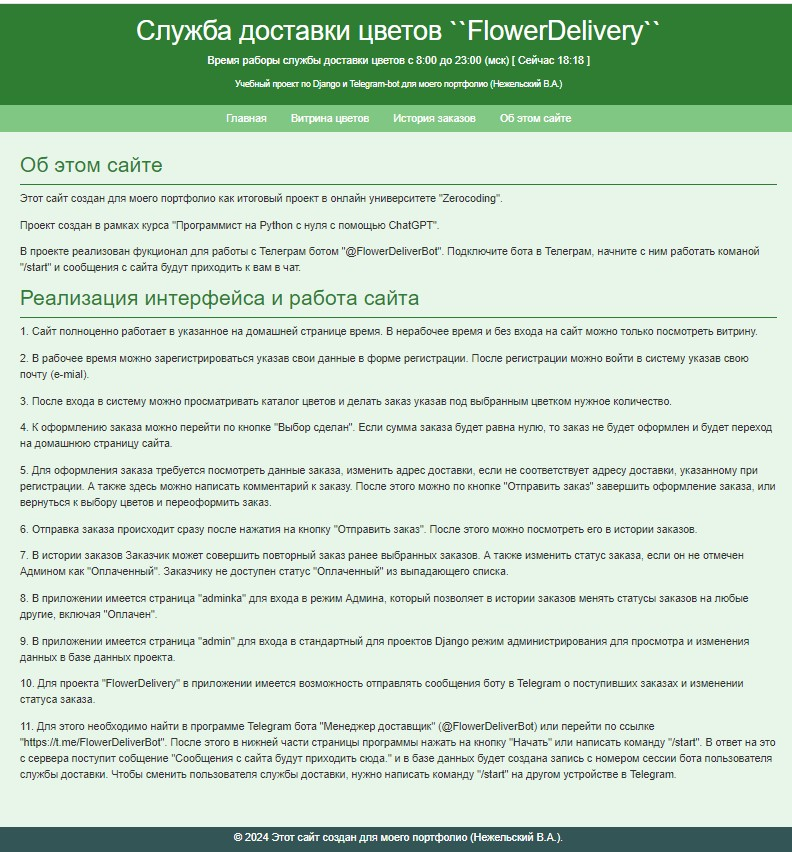
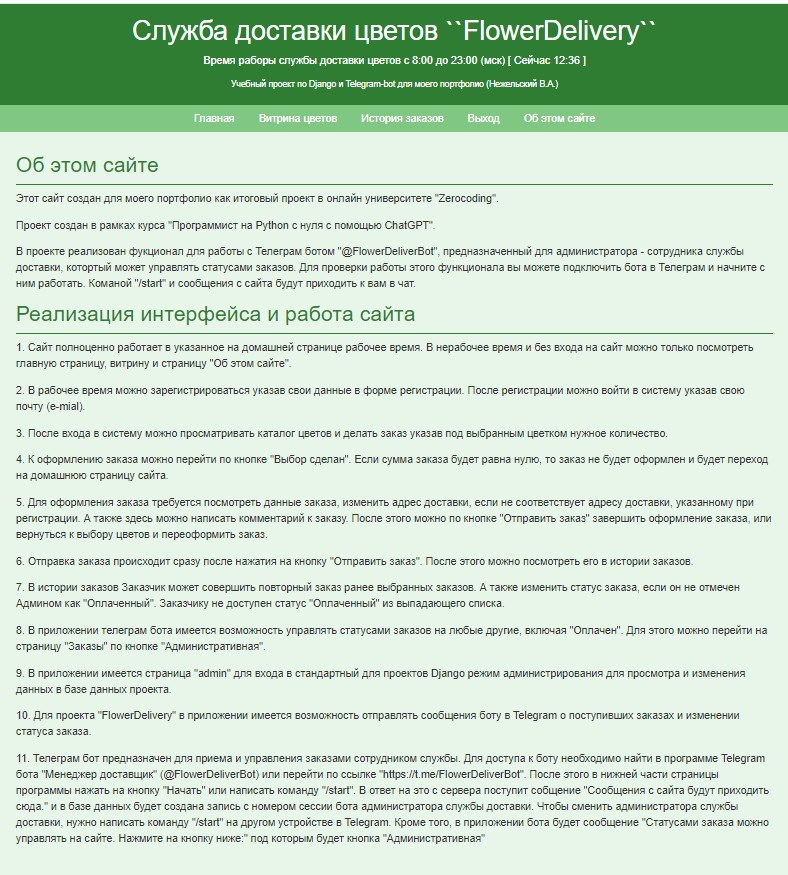
Commit N4 Новая редакция сайта

Changed region(s): [[0.0, 0.0, 1.0, 1.0]]

diff --git a/FlowerDelivery/website/templates/website/about.html b/FlowerDelivery/website/templates/website/about.html
@@ -6,47 +6,54 @@
             <h2>Об этом сайте</h2>
             <p>Этот сайт создан для моего портфолио как итоговый проект в онлайн университете "Zerocoding".</p>
             <p>Проект создан в рамках курса "Программист на Python с нуля с помощью ChatGPT".</p>
-            <p>В проекте реализован фукционал для работы с Телеграм ботом "@FlowerDeliverBot". Подключите бота
-            в Телеграм, начните с ним работать команой "/start" и сообщения с сайта будут приходить к вам в чат.</p>
+            <p>В проекте реализован фукционал для работы с Телеграм ботом "@FlowerDeliverBot", предназначенный для
+                администратора - сотрудника службы доставки, котортый может управлять статусами заказов.
+                Для проверки работы этого функционала вы можете подключить бота в Телеграм и начните с ним работать.
+                Команой "/start" и сообщения с сайта будут приходить к вам в чат.</p>
             <h2>Реализация интерфейса и работа сайта</h2>
-            <p>1. Сайт полноценно работает в указанное на домашней странице время.
-            В нерабочее время и без входа на сайт можно только посмотреть витрину.</p>
+            <p>1. Сайт полноценно работает в указанное на домашней странице рабочее время.
+                В нерабочее время и без входа на сайт можно только посмотреть главную страницу,
+                витрину и страницу "Об этом сайте".</p>
             <p>2. В рабочее время можно зарегистрироваться указав свои данные в
-            форме регистрации. После регистрации можно войти в систему указав свою
-            почту (e-mial).</p>
+                форме регистрации. После регистрации можно войти в систему указав свою
+                почту (e-mial).</p>
             <p>3. После входа в систему можно просматривать каталог цветов и делать заказ
-            указав под выбранным цветком нужное количество.</p>
+                указав под выбранным цветком нужное количество.</p>
             <p>4. К оформлению заказа можно перейти по кнопке "Выбор сделан". Если сумма
-            заказа будет равна нулю, то заказ не будет оформлен и будет переход на
-            домашнюю страницу сайта.</p>
+                заказа будет равна нулю, то заказ не будет оформлен и будет переход на
+                домашнюю страницу сайта.</p>
             <p>5. Для оформления заказа требуется посмотреть данные заказа, изменить
-            адрес доставки, если не соответствует адресу доставки, указанному при
-            регистрации. А также здесь можно написать комментарий к заказу. После
-            этого можно по кнопке "Отправить заказ" завершить оформление заказа,
-            или вернуться к выбору цветов и переоформить заказ.</p>
+                адрес доставки, если не соответствует адресу доставки, указанному при
+                регистрации. А также здесь можно написать комментарий к заказу. После
+                этого можно по кнопке "Отправить заказ" завершить оформление заказа,
+                или вернуться к выбору цветов и переоформить заказ.</p>
             <p>6. Отправка заказа происходит сразу после нажатия на кнопку "Отправить
-            заказ". После этого можно посмотреть его в истории заказов.</p>
+                заказ". После этого можно посмотреть его в истории заказов.</p>
             <p>7. В истории заказов Заказчик может совершить повторный заказ ранее
-            выбранных заказов. А также изменить статус заказа, если он не отмечен
-            Админом как "Оплаченный". Заказчику не доступен статус "Оплаченный" из
-            выпадающего списка.</p>
-            <p>8. В приложении имеется страница "adminka" для входа в режим
-            Админа, который позволяет в истории заказов менять статусы заказов на
-            любые другие, включая "Оплачен".</p>
+                выбранных заказов. А также изменить статус заказа, если он не отмечен
+                Админом как "Оплаченный". Заказчику не доступен статус "Оплаченный" из
+                выпадающего списка.</p>
+            <p>8. В приложении телеграм бота имеется возможность управлять статусами
+                заказов на любые другие, включая "Оплачен". Для этого можно перейти на
+                страницу "Заказы" по кнопке "Административная".</p>
             <p>9. В приложении имеется страница "admin" для входа в стандартный
-            для проектов Django режим администрирования для просмотра и изменения
-            данных в базе данных проекта.</p>
+                для проектов Django режим администрирования для просмотра и изменения
+                данных в базе данных проекта.</p>
             <p>10. Для проекта "FlowerDelivery" в приложении имеется возможность
-            отправлять сообщения боту в Telegram о поступивших заказах и изменении
-            статуса заказа.</p>
-            <p>11. Для этого необходимо найти в программе Telegram бота "Менеджер
-            доставщик" (@FlowerDeliverBot) или перейти по ссылке
-            "https://t.me/FlowerDeliverBot". После этого в нижней части страницы
-            программы нажать на кнопку "Начать" или написать команду "/start".
-            В ответ на это с сервера поступит собщение "Сообщения с сайта будут
-            приходить сюда." и в базе данных будет создана запись с номером сессии
-            бота пользователя службы доставки. Чтобы сменить пользователя службы
-            доставки, нужно написать команду "/start" на другом устройстве в
-            Telegram.</p>
+                отправлять сообщения боту в Telegram о поступивших заказах и изменении
+                статуса заказа.</p>
+            <p>11. Телеграм бот предназначен для приема и управления заказами
+                сотрудником службы.
+                Для доступа к боту необходимо найти в программе Telegram бота "Менеджер
+                доставщик" (@FlowerDeliverBot) или перейти по ссылке
+                "https://t.me/FlowerDeliverBot". После этого в нижней части страницы
+                программы нажать на кнопку "Начать" или написать команду "/start".
+                В ответ на это с сервера поступит собщение "Сообщения с сайта будут
+                приходить сюда." и в базе данных будет создана запись с номером сессии
+                бота администратора службы доставки. Чтобы сменить администратора службы
+                доставки, нужно написать команду "/start" на другом устройстве в
+                Telegram. Кроме того, в приложении бота будет сообщение
+                "Cтатусами заказа можно управлять на сайте. Нажмите на кнопку ниже:"
+                под которым будет кнопка "Административная"</p>
         </div>
 {% endblock %}

diff --git a/FlowerDelivery/website/templates/website/order_history.html b/FlowerDelivery/website/templates/website/order_history.html
@@ -74,33 +74,36 @@
 </div>
 
 <script>
-document.querySelectorAll('.status-select').forEach(select => {
-    select.addEventListener('change', function() {
-        const orderId = this.getAttribute('data-order-id');
-        const newStatus = this.value;
+    const user = '{{ user }}';
+    document.querySelectorAll('.status-select').forEach(select => {
+        select.addEventListener('change', function() {
+            const orderId = this.getAttribute('data-order-id');
+            const newStatus = this.value;
 
-        fetch("{% url 'orders' %}", {
-            method: 'POST',
-            headers: {
-                'Content-Type': 'application/json',
-                'X-CSRFToken': '{{ csrf_token }}'
-            },
-            body: JSON.stringify({
-                order_id: orderId,
-                status: newStatus
+            // Определяем URL в зависимости от значения user
+            const url = user === "admin" ? "{% url 'home_admin' %}" : "{% url 'orders' %}";
+
+            fetch(url, {
+                method: 'POST',
+                headers: {
+                    'Content-Type': 'application/json',
+                    'X-CSRFToken': '{{ csrf_token }}'
+                },
+                body: JSON.stringify({
+                    order_id: orderId,
+                    status: newStatus
+                })
             })
-        })
-        .then(response => response.json())
-        .then(data => {
-            if (data.status === 'success') {
-                console.log('Статус обновлен:', data.new_status);
-            } else {
-                console.error('Ошибка обновления статуса');
-            }
-        })
-        .catch(error => console.error('Ошибка:', error));
+            .then(response => response.json())
+            .then(data => {
+                if (data.status === 'success') {
+                    console.log('Статус обновлен:', data.new_status);
+                } else {
+                    console.error('Ошибка обновления статуса');
+                }
+            })
+            .catch(error => console.error('Ошибка:', error));
+        });
     });
-});
-
 </script>
 {% endblock %}

diff --git a/FlowerDelivery/website/views.py b/FlowerDelivery/website/views.py
@@ -241,7 +241,7 @@ def update_order_status(request):
         order.status = new_status  # Предполагается, что status является полем модели
         order.save()
         text = f'\nСтатус заказа №{order_id} изменен на {order.get_status_display()}.'
-        # send_message(text)
+        print(text)
         asyncio.run(send_initial_message(text))
         # Возвращаем успешный ответ
         return JsonResponse({'status': 'success', 'new_status': order.get_status_display()})
@@ -318,8 +318,6 @@ def home_admin(request):
     context = {
         'orders': orders,
         'user': 'admin',
-        'open': str(TIME[0]),
-        'close': str(TIME[1]),
         'is_open': True,
     }
     return render(request, 'website/order_history.html', context)

diff --git a/FlowerDelivery/website/urls.py b/FlowerDelivery/website/urls.py
@@ -9,6 +9,5 @@ urlpatterns = [
     path('showcase/', views.showcase, name='showcase'),  # Страница витрины/каталога для заказчиков
     path('cart/', views.cart, name='cart'),  # Страница корзины для заказа
     path('orders/', views.order_history, name='orders'),  # Страница истории заказов
-    path('adminka/', views.login_admin, name='adminka'),  # Страница входа администратора
     path('home_admin/', views.home_admin, name='home_admin'),  # Страница администратора
 ]

diff --git a/FlowerDelivery/README.md b/FlowerDelivery/README.md
@@ -95,8 +95,9 @@
 ### Реализация интерфейса и работа сайта
 #### Домашняя страница в рабочее время
 ![scrinshot02.jpg](scrinshot02.jpg)
-1. Сайт полноценно работает в указанное на домашней странице время.
-В нерабочее время и без входа на сайт можно только посмотреть витрину.
+1. Сайт полноценно работает в указанное на домашней странице рабочее время.
+В нерабочее время и без входа на сайт можно только посмотреть 
+главную страницу, витрину и страницу "Об этом сайте".
 #### Домашняя страница в нерабочее время
 ![scrinshot01.jpg](scrinshot01.jpg)
 #### Страница витрины цветов в режиме Витрина
@@ -111,7 +112,7 @@
 #### Домашняя страница после входа
 ![scrinshot05.jpg](scrinshot05.jpg)
 3. После входа в систему можно просматривать каталог цветов и делать заказ
-указав под выбранным цветком нужное количество.
+указав под выбранным цветком нужное количество. 
 #### Страница католога в режиме выбора для заказа
 ![scrinshot07.jpg](scrinshot07.jpg)
 4. К оформлению заказа можно перейти по кнопке "Выбор сделан". Если сумма
@@ -132,12 +133,11 @@
 выбранных заказов. А также изменить статус заказа, если он не отмечен
 Админом как "Оплаченный". Заказчику не доступен статус "Оплаченный" из
 выпадающего списка.<br>
-8. В приложении имеется страница "adminka" для входа в режим 
-Админа, который позволяет в истории заказов менять статусы заказов на
-любые другие, включая "Оплачен".
-#### Страница входа Админа
-![scrinshot101.jpg](scrinshot101.jpg)
-#### Страница истории заказов для Админа
+![scrinshot09a.jpg](scrinshot09a.jpg)
+8. В приложении телеграм бота имеется возможность управлять статусами 
+заказов на любые другие, включая "Оплачен". Для этого можно перейти на
+страницу "Заказы" по кнопке "Административная".
+#### Страница заказов для Администратора
 ![scrinshot11.jpg](scrinshot11.jpg)
 9. В приложении имеется страница "admin" для входа в стандартный
 для проектов Django режим администрирования для просмотра и изменения
@@ -160,6 +160,6 @@
 доставки, нужно написать команду "/start" на другом устройстве в 
 Telegram. Кроме того, в приложении бота будет сообщение 
 "Cтатусами заказа можно управлять на сайте. Нажмите на кнопку ниже:"
-под которым будет кнопка "Административная"<br>
+под которым будет кнопка "Административная".<br>
 12. Страница "Об этом сайте"
 ![scrinshot15.jpg](scrinshot15.jpg). 
